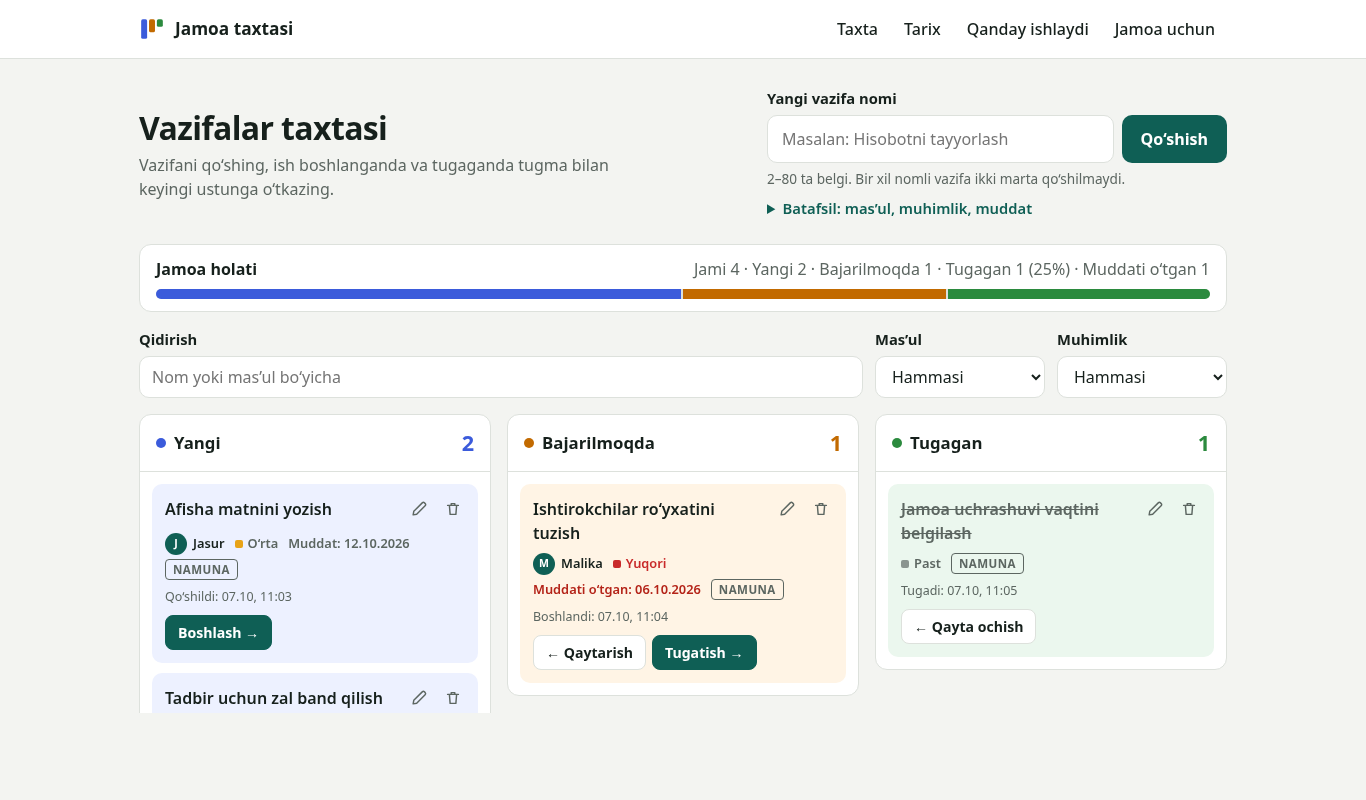
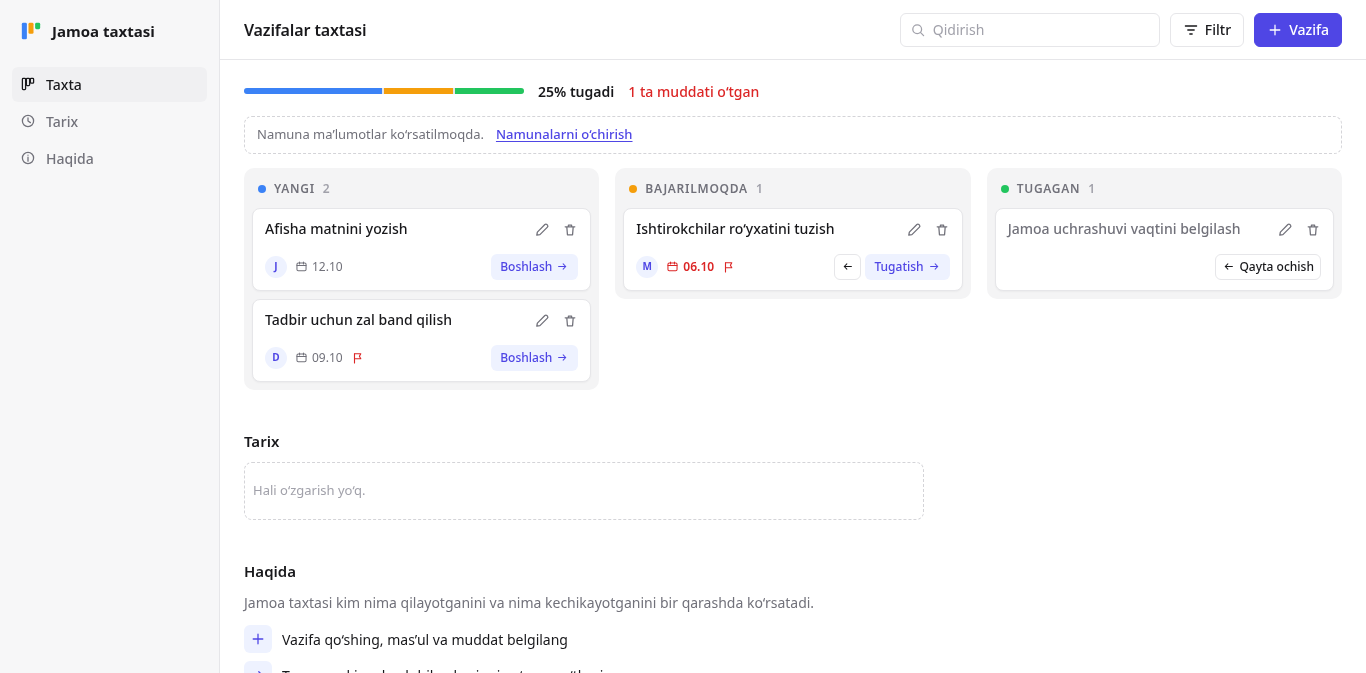
hujjatlar: v3 dizayn bo'yicha README, TESTLAR, PROMPTS, HIMOYA; yangi skrinshotlar

diff --git a/README.md b/README.md
@@ -3,7 +3,9 @@
 **Bosqich:** tuman · **Ishtirokchi kodi:** KOD · **Bilet:** 010 (B daraja, manbadagi 089) · **Yo‘nalish:** Jamoa va ishni tashkil etish
 **Repo:** https://github.com/AdilxanKenesov/Team-Board
 
-Jamoaga vazifalar bajarilishini kuzatishga yordam beradigan bitta sahifali veb-sayt. Vazifa qo‘shiladi va tugmalar (yoki sichqoncha bilan sudrash) orqali **Yangi → Bajarilmoqda → Tugagan** ustunlari bo‘ylab o‘tkaziladi. Har ustunda son, umumiy holat chizig‘i, mas’ul va muddatlar ko‘rinadi.
+Jamoaga vazifalar bajarilishini kuzatishga yordam beradigan veb-ilova. Vazifa qo‘shiladi va tugmalar (yoki sichqoncha bilan sudrash) orqali **Yangi → Bajarilmoqda → Tugagan** ustunlari bo‘ylab o‘tkaziladi.
+
+**Ko‘rinish:** ilova uslubi — chapda menyu (Taxta, Tarix, Haqida), tepada qidiruv, filtr va “+ Vazifa”; qo‘shish va tahrir o‘ngdan chiqadigan panelda; kartada faqat nom, mas’ul, muddat va muhimlik belgisi. Oq minimal uslub, tungi rejim, telefonda tablar va suzuvchi tugma.
 
 ## Ishga tushirish
 `index.html` ni Chrome yoki Edge’da oching (ikki marta bosish yetarli). Internet, server, o‘rnatish kerak emas.
@@ -19,27 +21,28 @@ Testlar: `node test.js` va `tests/` (qarang: `TESTLAR.md`).
 | Sinov | Yangi → Bajarilmoqda: Yangi −1, Bajarilmoqda +1 | Tugma va sudrash bilan tekshirildi | ✅ |
 
 ## Qo‘shimcha imkoniyatlar (asosiy talablar bajarilgandan keyin)
-- **Mas’ul, muhimlik, muddat** — “Batafsil” qismida; muddati o‘tgan vazifa qizil belgi bilan.
+- **Mas’ul, muhimlik, muddat** — “+ Vazifa” panelida; muddati o‘tgan vazifa qizil sana bilan.
 - **Tahrirlash va o‘chirish**; har amaldan keyin **6 soniya “Bekor qilish”**.
 - **Qidiruv va filtr** (mas’ul, muhimlik); o‘zbekcha apostroflar (‘ ' ʻ) farqlanmaydi.
 - **Sudrab o‘tkazish** — faqat ruxsat etilgan ustunga; tugmalar asosiy yo‘l bo‘lib qoladi.
-- **Telefonda tablar** — uch ustun o‘rniga “Yangi / Bajarilmoqda / Tugagan” tablari.
-- **Tarix** — oxirgi 20 o‘zgarish vaqti bilan.
+- **Telefonda tablar** — uch ustun o‘rniga “Yangi / Bajarilmoqda / Tugagan” tablari; “+ Vazifa” — suzuvchi tugma.
+- **Namuna banneri** — namuna vazifalarni bir bosishda o‘chirish (o‘zingiz qo‘shganlari qoladi).
+- **Tarix** — oxirgi 10 o‘zgarish vaqti bilan (saqlanadi 50 tagacha).
 - **Yig‘ilish uchun hisobot** — bir tugma bilan matnli hisobot, nusxalash.
 
 ## Fayllar
 | Fayl | Vazifasi |
 |---|---|
-| `index.html` | Sahifa: Taxta, Tarix, Qanday ishlaydi, Jamoa uchun |
+| `index.html` | Sahifa: menyu, yuqori panel, Taxta, Tarix, Haqida, qo‘shish/tahrir paneli |
 | `style.css` | Ko‘rinish; 390 / 768 / 1366 px; kunduzgi va tungi rejim |
 | `logic.js` | Barcha qoidalar: tekshiruv, o‘tishlar, filtr, hisobot, saqlash (DOM’siz) |
 | `script.js` | Sahifa bilan bog‘lash: tugmalar, sudrash, tablar, fokus, “Bekor qilish” |
-| `test.js`, `tests/` | 20 unit + 42 brauzer tekshiruvi |
+| `test.js`, `tests/` | 20 unit + 49 brauzer tekshiruvi |
 | `REJA.md`, `PROMPTS.md`, `TESTLAR.md`, `HIMOYA.md` | Reja, AI so‘rovlari, sinovlar, himoya |
-| `dalillar/` | 5 ta skrinshot |
+| `dalillar/` | 6 ta skrinshot |
 
 ## Sinovlar
-To‘liq jadval — `TESTLAR.md`. Qisqacha: bilet sinovi, bo‘sh/qisqa/uzun/takror nom, noto‘g‘ri va o‘tgan muddat, ikki marta bosish, ruxsat etilmagan sudrash, bekor qilish, filtr, yangilash, buzilgan va eski formatdagi ma’lumot, 390/768/1366 px, klaviatura — hammasi ✅. Topilgan 7 ta kamchilik tuzatilgan (commitlar bilan).
+To‘liq jadval — `TESTLAR.md`. Qisqacha: bilet sinovi, bo‘sh/qisqa/uzun/takror nom, noto‘g‘ri va o‘tgan muddat, ikki marta bosish, ruxsat etilmagan sudrash, bekor qilish, filtr, yangilash, buzilgan va eski formatdagi ma’lumot, 390/768/1366 px, klaviatura — hammasi ✅. Topilgan 10 ta kamchilik tuzatilgan (commitlar bilan).
 
 ## Cheklovlar
 - Ma’lumot faqat shu brauzerda saqlanadi — jamoa a’zolari o‘rtasida avtomatik ulashilmaydi (buning uchun server kerak).

diff --git a/TESTLAR.md b/TESTLAR.md
@@ -1,6 +1,6 @@
 # TESTLAR — Bilet 010 “Jamoa taxtasi”
 
-Jami: **20 unit test** (`node test.js`) + **42 brauzer tekshiruvi** (`tests/`). Hammasi o‘tadi.
+Jami: **20 unit test** (`node test.js`) + **49 brauzer tekshiruvi** (`tests/`: 26 + 23). Hammasi o‘tadi.
 
 ## Qanday ishga tushiriladi
 ```
@@ -23,7 +23,7 @@ Brauzer testlari sahifaning `localStorage`ini tozalaydi — o‘z ma’lumotingi
 | Bo‘sh nom / faqat probel | “Vazifa nomini yozing.” | ✅ |
 | 1 belgi / 81 belgi | “kamida 2…” / “80 tadan oshmasin (hozir 81 ta)” | ✅ |
 | Takror nom (katta-kichik harf, probel farqi bilan) | “Bunday vazifa allaqachon bor…” | ✅ |
-| Mas’ul 1 belgi | “Mas’ul ismi 2–30 ta belgi bo‘lsin.”, “Batafsil” o‘zi ochiladi | ✅ |
+| Mas’ul 1 belgi | “Mas’ul ismi 2–30 ta belgi bo‘lsin.”, panel ochiq qoladi | ✅ |
 | Muddat o‘tgan sana | “Muddat bugundan oldin bo‘lmasin.” | ✅ |
 | Muddat `2026-02-30` | “Muddat noto‘g‘ri sana.” | ✅ (unit) |
 | Tahrirda boshqa vazifa nomi | rad etiladi; o‘z nomini qayta saqlash mumkin | ✅ |
@@ -34,7 +34,10 @@ Brauzer testlari sahifaning `localStorage`ini tozalaydi — o‘z ma’lumotingi
 |---|---|---|
 | Ko‘chirish → “Bekor qilish” | sonlar oldingi holatga qaytadi | ✅ |
 | O‘chirish → “Bekor qilish” | vazifa qaytadi | ✅ |
-| Tahrir, Esc | o‘zgarish saqlanmaydi | ✅ |
+| Tahrir paneli, Esc | o‘zgarish saqlanmaydi, panel yopiladi | ✅ |
+| Filtr paneli | ochiladi, faol filtrlar soni ko‘rinadi, Esc yopadi | ✅ |
+| “Namunalarni o‘chirish” | faqat namuna vazifalar o‘chadi, banner yo‘qoladi | ✅ |
+| Panel yopilganda fokus | “+ Vazifa” tugmasiga qaytadi | ✅ |
 | Yangi → Tugagan sudrash | rad, “Bu ustunga o‘tkazib bo‘lmaydi” | ✅ |
 | Qidiruv `ROʻYXAT` (boshqa apostrof) | “ro‘yxat” topiladi; “1 / 5 ta vazifa” | ✅ |
 | Filtrda | ustun sonlari umumiy; bo‘sh ustunda “Filtrga mos vazifa yo‘q” | ✅ |
@@ -49,7 +52,7 @@ Brauzer testlari sahifaning `localStorage`ini tozalaydi — o‘z ma’lumotingi
 | Sinov | Kutilgan | Natija |
 |---|---|---|
 | 390 / 768 / 1366 px | yonga surish yo‘q | ✅ |
-| 390 px | ustunlar tablarga bo‘linadi, ← → bilan tab almashadi | ✅ |
+| 390 px | ustunlar tablarga bo‘linadi, ← → bilan tab almashadi; “+ Vazifa” suzuvchi tugma | ✅ |
 | Ko‘chirish / tahrir / o‘chirishdan keyin fokus | mantiqiy joyda, `body`da emas | ✅ |
 | Kunduzgi va tungi rejim | ikkalasi ham o‘qiladi | ✅ (skrinshot) |
 
@@ -63,5 +66,8 @@ Brauzer testlari sahifaning `localStorage`ini tozalaydi — o‘z ma’lumotingi
 | 5 | Telefonda “Bajarilmoqda 1” tabi 2 qatorga bo‘linardi | bir qatorga sig‘diriladi | `478080c` |
 | 6 | Tahrir shaklida bo‘sh xato qatorlari bo‘shliq qoldirardi | bo‘sh xato joy olmaydi | `478080c` |
 | 7 | Tungi rejimda “Bekor qilish” tugmasi kontrasti past | matn rangi + ramka | `478080c` |
+| 8 | v3: qidiruv ikonkasi placeholder ustiga tushardi | maydon ichki chegarasi tuzatildi | `febeae3` |
+| 9 | v3: telefonda yuqori menyu ekran balandligigacha cho‘zilardi | grid qatorlari `auto 1fr` | `febeae3` |
+| 10 | v3: 768 px da “Tugatish” tugmasi kartadan chiqib ketardi | karta pastki qatori o‘raladi | `febeae3` |
 
 Sinov jarayonidagi o‘z xatom: test skriptida Esc kartaga yuborilgan edi (shaklga yetmagan) — test tuzatildi, sayt to‘g‘ri ishlagan.

diff --git a/HIMOYA.md b/HIMOYA.md
@@ -6,8 +6,8 @@
 - **Yechim:** uch ustunli taxta — har vazifaning bosqichi, egasi va muddati bir qarashda; “Jamoa holati” chizig‘i va yig‘ilish uchun tayyor hisobot.
 
 ## 2. Namoyish — 5 daqiqa (shu tartibda)
-1. Bo‘sh nom bilan “Qo‘shish” → xato xabari (**noto‘g‘ri kiritish**).
-2. “Hisobot tayyorlash”, mas’ul “Sardor”, muhimlik “Yuqori” → qo‘shiladi.
+1. “+ Vazifa” → panel ochiladi; bo‘sh nom bilan “Qo‘shish” → xato xabari (**noto‘g‘ri kiritish**).
+2. “Hisobot tayyorlash”, mas’ul “Sardor”, muhimlik “Yuqori” → qo‘shiladi, panel yopiladi.
 3. “Boshlash →” → **Yangi −1, Bajarilmoqda +1** (bilet sinovi). Sonlarni ko‘rsating.
 4. “Bekor qilish” → qaytadi; yana “Boshlash →”.
 5. Sichqoncha bilan Tugaganga sudrash; Yangi → Tugagan sudrab bo‘lmasligini ko‘rsatish.
@@ -20,13 +20,13 @@
 Vazifa qo‘shadi, ish boshlanganda va tugaganda uni keyingi ustunga o‘tkazadi, kim nima qilayotganini va nima kechikkanini ko‘radi.
 
 **Nega shu vosita?**
-Claude Code fayllarni o‘zi yozadi, testlarni ishga tushiradi va brauzerda tekshiradi — 90 daqiqada reja, kod, 62 ta sinov va hujjatni bir joyda qilish mumkin bo‘ldi. Natija oddiy HTML/CSS/JS — internetsiz, o‘rnatishsiz ochiladi.
+Claude Code fayllarni o‘zi yozadi, testlarni ishga tushiradi va brauzerda tekshiradi — reja, kod, 69 ta sinov va hujjatni bir joyda qilish mumkin bo‘ldi. Natija oddiy HTML/CSS/JS — internetsiz, o‘rnatishsiz ochiladi.
 
 **AI natijasida nima o‘zgartirildi?**
-Qo‘shimchalarni o‘zim tanladim; bosqichlarni commitlarga bo‘ldim. Sinovda 7 ta kamchilik topilib tuzatildi: masalan, telefonda vazifa boshqa tabga o‘tganda fokus yo‘qolardi; hisobot oynasi yopilganda fokus noto‘g‘ri joyga qaytardi; tungi rejimda tugma kontrasti past edi. Bir marta commit test natijasini kutmay o‘tib ketdi — shundan keyin commit faqat hamma test o‘tsa bajariladigan qilindi.
+Qo‘shimchalarni va dizayn yo‘nalishini o‘zim tanladim: birinchi dizaynda matn juda ko‘p edi — ilova ko‘rinishiga o‘tkazib, matnni qisqartirdim (qo‘shish/tahrir alohida panelda, kartada faqat kerakli ma’lumot). Bosqichlarni commitlarga bo‘ldim. Sinovda 10 ta kamchilik topilib tuzatildi: masalan, telefonda vazifa boshqa tabga o‘tganda fokus yo‘qolardi; hisobot oynasi yopilganda fokus noto‘g‘ri joyga qaytardi; tungi rejimda tugma kontrasti past edi. Bir marta commit test natijasini kutmay o‘tib ketdi — shundan keyin commit faqat hamma test o‘tsa bajariladigan qilindi.
 
 **Qaysi xato qanday tekshirildi?**
-`node test.js` (20 test) va `tests/` dagi brauzer testlari (42 tekshiruv). Misol: hisobot oynasi Esc bilan yopilganda fokus qayerga tushishi avtomatik tekshirildi, xato topildi, tuzatildi, qayta tekshirildi (`7dadcee`).
+`node test.js` (20 test) va `tests/` dagi brauzer testlari (49 tekshiruv). Misol: hisobot oynasi Esc bilan yopilganda fokus qayerga tushishi avtomatik tekshirildi, xato topildi, tuzatildi, qayta tekshirildi (`7dadcee`).
 
 **Cheklovlar?**
 Ma’lumot faqat shu brauzerda — jamoa bilan ulashish uchun server kerak. “Bekor qilish” faqat oxirgi amalga. Sudrash faqat sichqonchada (telefonda tugmalar).

diff --git a/PROMPTS.md b/PROMPTS.md
@@ -73,11 +73,31 @@ README v2, PROMPTS.md, HIMOYA.md; maxfiy kalit tekshiruvi; papka nomi tuman_<KOD
 Yangi funksiya qo'shma.
 ```
 
+## v3 — qayta dizayn
+Ishtirokchi fikri: “dizayn yoqmadi, matn juda ko‘p, hammasi bir joyga yig‘ilgan”. Variantlar ko‘rsatildi (ASCII maket bilan), ishtirokchi tanladi: **ilova ko‘rinishi** + **oq minimal uslub**.
+
+### P8 — Qayta dizayn
+```
+Redesign layout and visual layer. Do NOT change logic.js. Keep every element id used by script.js and tests.
+Layout: app shell — left sidebar (Taxta, Tarix, Haqida; Hisobot, Tozalash at bottom),
+top bar (search with icon, Filtr popover with active-count badge, "+ Vazifa" primary).
+Add/edit in one right-side drawer (focus trap, Esc closes, focus returns to opener).
+Cut text: no helper paragraphs; card = title + assignee avatar + due date + flag only if high priority;
+created time only in title attribute and history; sample data = one banner with "remove samples".
+"Qanday ishlaydi" + "Jamoa uchun" → one short "Haqida" (1 sentence + 3 lines).
+Style: white minimal (Linear/Notion), neutral lanes, colour only for status dots, overdue, primary action.
+Tokens: bg #fff, side #f7f7f8, line #e6e6e9, ink #18181b, muted #71717a, primary #4f46e5; dark mode.
+Mobile ≤640: sidebar → compact top header, column tabs, floating "+ Vazifa".
+Update e2e tests for the drawer (no fewer checks), run all, screenshot 1366/768/390/dark, fix issues.
+```
+Natija: 49/49 brauzer tekshiruvi, 3 ta ko‘rinish xatosi topilib tuzatildi (TESTLAR.md, 8–10).
+
 ## AI natijasida kiritilgan muhim tuzatishlar
-- Sinovda topilgan 7 kamchilik (TESTLAR.md, “Topilgan va tuzatilgan xatolar”).
+- Sinovda topilgan 10 kamchilik (TESTLAR.md, “Topilgan va tuzatilgan xatolar”).
 - Commit test natijasini kutmay o'tib ketgan holat bo'ldi (`7a609a3`); keyingi commitlar faqat barcha testlar o'tganda bajariladigan qilindi.
 
 ## Ishtirokchi qarorlari
 - Qo'shimchalar ro'yxati va har bosqich commit qilinishi — ishtirokchi tanlovi.
 - Repo nomi: Team-Board.
+- Dizayn yo‘nalishi: ilova ko‘rinishi + oq minimal (3 variantdan tanlandi).
 - <o'zingiz kiritgan boshqa o'zgarishlar>
